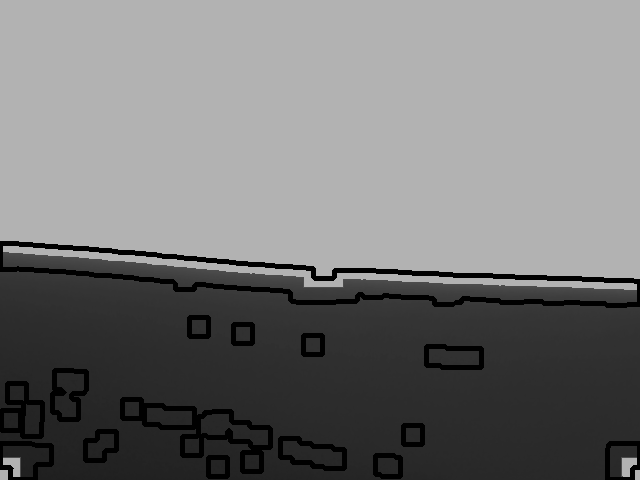
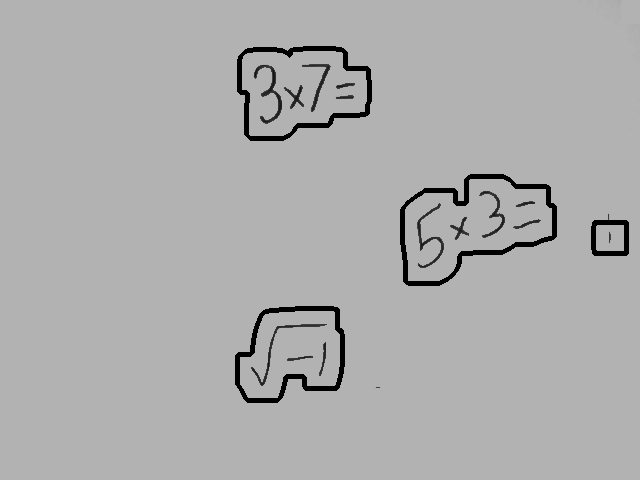
contours better

diff --git a/preprocessing/preprocessing.py b/preprocessing/preprocessing.py
@@ -5,7 +5,7 @@ from PIL import Image
 from preprocessing.openaiapi import *
 
 # Function to adjust brightness and contrast of the image
-def adjust_brightness_contrast(img, brightness=50, contrast=30):
+def adjust_brightness_contrast(img, brightness=0, contrast=0):
     # Adjusting brightness and contrast
     # We use the formula: new_pixel = alpha * (pixel - 128) + 128 + beta
     # Where 'alpha' is a scaling factor (contrast) and 'beta' is the brightness offset
@@ -29,16 +29,17 @@ def process_whiteboard_image(img, output_path="output_image.jpg"):
     # Read the image
 
     # Increase brightness and contrast before further processing
-    img = adjust_brightness_contrast(img, brightness=70, contrast=50)
+    img = adjust_brightness_contrast(img, brightness=30, contrast=60)
+    cv2.imwrite("bright_image.png", img)
 
     # Convert to grayscale
     #gray = cv2.cvtColor(img, cv2.COLOR_BGR2GRAY)
 
     # Apply binary thresholding to get a black and white image
-    _, binary = cv2.threshold(img, 250, 255, cv2.THRESH_BINARY_INV)
+    _, binary = cv2.threshold(img, 230, 255, cv2.THRESH_BINARY_INV)
 
     # OPTIONAL: Clean up noise using morphological operations (e.g., closing)
-    kernel = np.ones((3, 3), np.uint8)
+    kernel = np.ones((1, 1), np.uint8)
     cleaned = cv2.morphologyEx(binary, cv2.MORPH_CLOSE, kernel)
 
     # Apply dilation to thicken the text
@@ -94,15 +95,16 @@ def preprocess_image(image):
     # Convert to grayscale
     #gray = cv2.cvtColor(image, cv2.COLOR_BGR2GRAY)
 
-    # Display the grayscale image to check the contrast before thresholding
+    # Display the grayscale fimage to check the contrast before thresholding
     """plt.imshow(image, cmap='gray')
     plt.title("Grayscale Image")
     plt.axis("off")
     plt.show()"""
 
+
     # Apply adaptive thresholding to get a black and white image
     binary = cv2.adaptiveThreshold(image, 255, cv2.ADAPTIVE_THRESH_MEAN_C,
-                                   cv2.THRESH_BINARY_INV, 11, 2)
+                                cv2.THRESH_BINARY, 15, -5)
     
     cv2.imwrite("adaptive_threshold.png", binary)
 
@@ -138,6 +140,9 @@ def extract_equation_groups(image):
     """
     # Preprocess the image to remove the black border
     img_cropped, binary_cropped, img, binary = preprocess_image(image)
+    #binary_cropped = cv2.bitwise_not(binary_cropped)  # White background
+
+    cv2.imwrite("img_cropped.png", binary_cropped)
 
     # Apply dilation to join nearby contours
     kernel = np.ones((20, 20), np.uint8)  # Adjust the kernel size as needed
@@ -183,7 +188,7 @@ def extract_equation_groups(image):
             text_percentage = (text_pixels / total_pixels) * 100
 
             # Only add the original crop to the list if the text percentage is above 10%
-            if text_percentage >= 5:
+            if text_percentage >= 2:
                 # Append the equation crop along with its full bounding box (x, y, w, h)
                 equation_groups.append({
                     'equation': cropped_equation,  # Cropped equation image
@@ -287,6 +292,8 @@ def process_equations(image):
 
     equation_groups, img_cropped, binary_cropped = extract_equation_groups(image)
     equation_images = [e["equation"] for e in equation_groups]
+    equation_boxes = [e['bounding_box'] for e in equation_groups]
+    print(f"equation groups: {equation_groups}")
 
     # Show the preprocessed images
     #show_preprocessed_image(img_cropped, binary_cropped, img_cropped, binary_cropped)
@@ -335,12 +342,13 @@ def process_equations(image):
             
             # Get the position of the equation in the cropped image
             # Assuming the equation group has the "position" data which provides the (x, y) top-left position
-            eq_position = equation_groups[index].get("position", (0, 0))
-            eq_x, eq_y = eq_position
+            #eq_position = equation_groups[index].get("position", (0, 0))
+            #eq_x, eq_y = eq_position
 
-            # Calculate center-right position relative to the entire image
-            center_right_x = eq_x + eq_width - 1  # Right edge of the equation in the whole image
-            center_right_y = eq_y + (eq_height // 2)  # Vertical center of the equation in the whole image
+            (x1, y1, w, h) = equation_groups[index].get("bounding_box")
+
+            center_right_x = x1 + w + 15
+            center_right_y = y1 + (h // 2)
 
             # Append the equation and its position
             equations_with_positions.append((latex_string, (center_right_x, center_right_y)))

diff --git a/engine/MProjectorWindow.py b/engine/MProjectorWindow.py
@@ -65,15 +65,19 @@ class ProjectorWindow():
     
 
     def save_tkinter_background(self):
+        try:
 
-        # Save the Tkinter canvas content to a PostScript file
-        self.canvas.postscript(file="projection.ps", colormode='color')
+            # Save the Tkinter canvas content to a PostScript file
+            self.canvas.postscript(file="projection.ps", colormode='color')
 
-        # Open the PostScript file, convert it to PNG format, and save
-        img = Image.open("projection.ps")
-        img = img.resize((640,480))
+            # Open the PostScript file, convert it to PNG format, and save
+            img = Image.open("projection.ps")
+            img = img.resize((640,480))
 
-        img.save("projection.png", "png")
+            with self.lock:
+                img.save("projection.png", "png")
+        except:
+            pass
         
     def save_foreground_mask(self):
         """
@@ -90,8 +94,9 @@ class ProjectorWindow():
             return None
 
         try:
-            # Read the background image in grayscale (projection-only baseline)
-            background = cv2.imread('projection.png', cv2.IMREAD_GRAYSCALE)
+            with self.lock:
+                # Read the background image in grayscale (projection-only baseline)
+                background = cv2.imread('projection.png', cv2.IMREAD_GRAYSCALE)
 
             # Convert the current frame to grayscale
             frame_gray = cv2.cvtColor(frame, cv2.COLOR_BGR2GRAY)
@@ -176,13 +181,13 @@ class ProjectorWindow():
         offset = 0
 
         # Create labels with offset from each corner
-        self.label_tl = MXLabel(self.canvas, self.screen_corners[0][0] + offset, self.screen_corners[0][1] + offset)
-        self.label_tr = MXLabel(self.canvas, self.screen_corners[1][0] - offset, self.screen_corners[1][1] + offset)
-        self.label_bl = MXLabel(self.canvas, self.screen_corners[2][0] + offset, self.screen_corners[2][1] - offset)
-        self.label_br = MXLabel(self.canvas, self.screen_corners[3][0] - offset, self.screen_corners[3][1] - offset)
+        self.label_tl = MXLabel(self, self.screen_corners[0][0] + offset, self.screen_corners[0][1] + offset)
+        self.label_tr = MXLabel(self, self.screen_corners[1][0] - offset, self.screen_corners[1][1] + offset)
+        self.label_bl = MXLabel(self, self.screen_corners[2][0] + offset, self.screen_corners[2][1] - offset)
+        self.label_br = MXLabel(self, self.screen_corners[3][0] - offset, self.screen_corners[3][1] - offset)
         self.entities.extend([self.label_tl, self.label_tr, self.label_br, self.label_bl])
 
-        self.center_label = MXLabel(self.canvas, -10, -10, colour="red")
+        self.center_label = MXLabel(self, -10, -10, colour="red")
         self.entities.append(self.center_label)
         
         #self.master.update_idletasks()
@@ -225,6 +230,11 @@ class ProjectorWindow():
 
             if mask is not None:
                 equations_with_positions = process_equations(mask)
+                
+                # remove existing label (this limits the maximum number of labels to 1 unfortunately)
+                for _e in self.entities:
+                    if _e.tag == "ANSWER":
+                        _e.delete()
                 if equations_with_positions is not None:
                     answers = []
                     for e in equations_with_positions:
@@ -239,11 +249,14 @@ class ProjectorWindow():
                         answers.append(answer)
                         
                         if answer is not None:
+
                             # draw the answer to the right of the question
                             answer_position = (e[1][0], e[1][1])
                             answer_position = (answer_position[0] + 10, answer_position[1])
                             print(f"answer position: {answer_position}")
-                            answer_label = MXLabel(self.canvas, *answer_position, text=answer, colour="red")
+                            answer_label = MXLabel(self, *answer_position, text=answer, colour="red")
+                            answer_label.tag = "ANSWER"
+
                             self.entities.append(answer_label)
 
                     print(f"equations: {[e for e in equations_with_positions]}\nanswers: {answers}") 

diff --git a/engine/MXLabel.py b/engine/MXLabel.py
@@ -3,16 +3,28 @@ import tkinter as tk
 
 class MXLabel(GameEntity):
     def __init__(self, master, x, y, text = "X", colour="#32FD32"):
+        self.master = master
         self.text = text
         self.text_id = None
         self.x = x
         self.y = y
         self.x_font = ("Arial", 36, "bold")
         self.x_color = colour
+        self.dead = False
+        self.tag = None
 
     def draw(self, canvas: tk.Canvas):
+        
         if self.text_id is not None: canvas.delete(self.text_id)
+
+        if self.dead: return
+
+        
         self.text_id = canvas.create_text(self.x, self.y, text=self.text, fill=self.x_color, font=self.x_font, anchor="center")
+
+    def delete(self):
+        self.dead = True
+        #if self.text_id is not None: self.master.canvas.delete(self.text_id)
 
     def think(self):
         pass

diff --git a/main.py b/main.py
@@ -7,4 +7,4 @@ if __name__ == "__main__":
     
     while 1:
         app.mainloop()
-        time.sleep(0.1) 
+        time.sleep(0.1)
